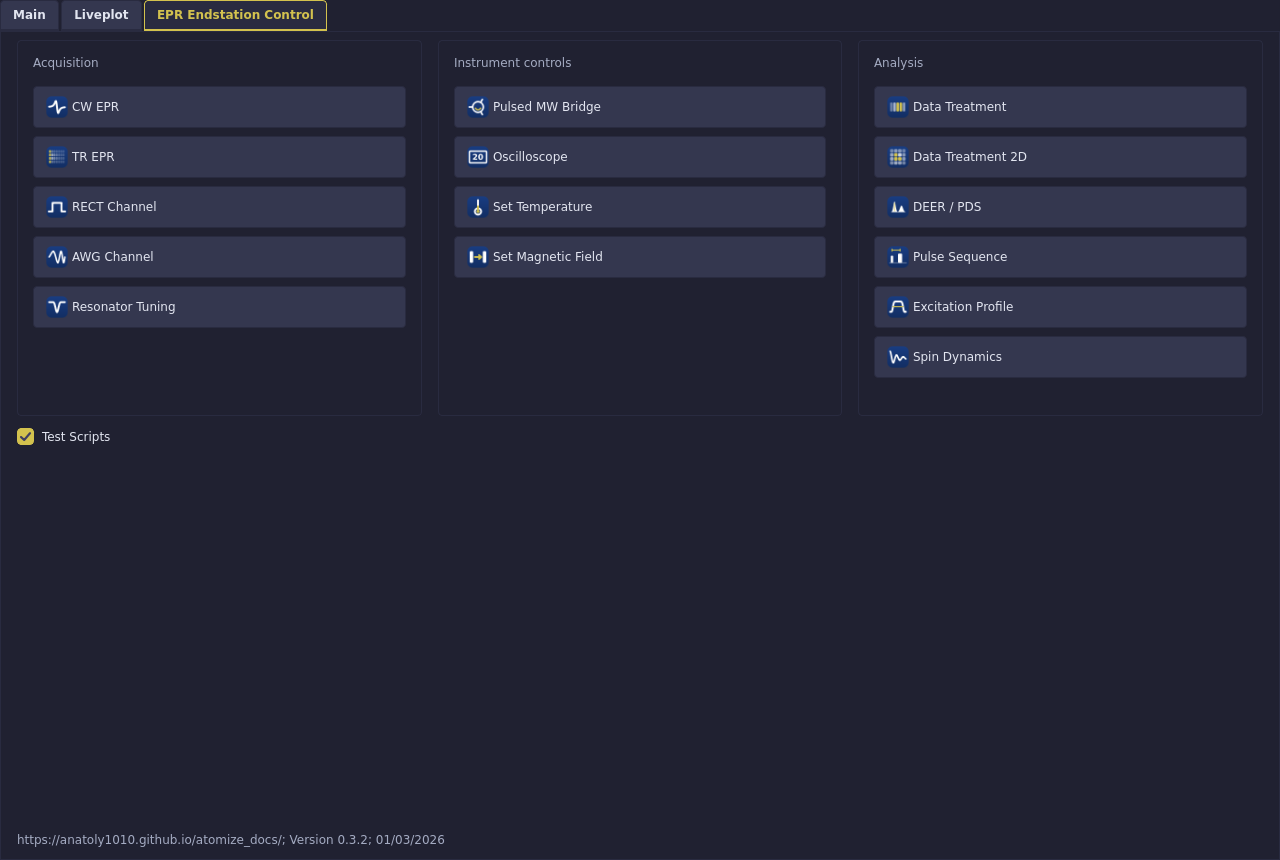
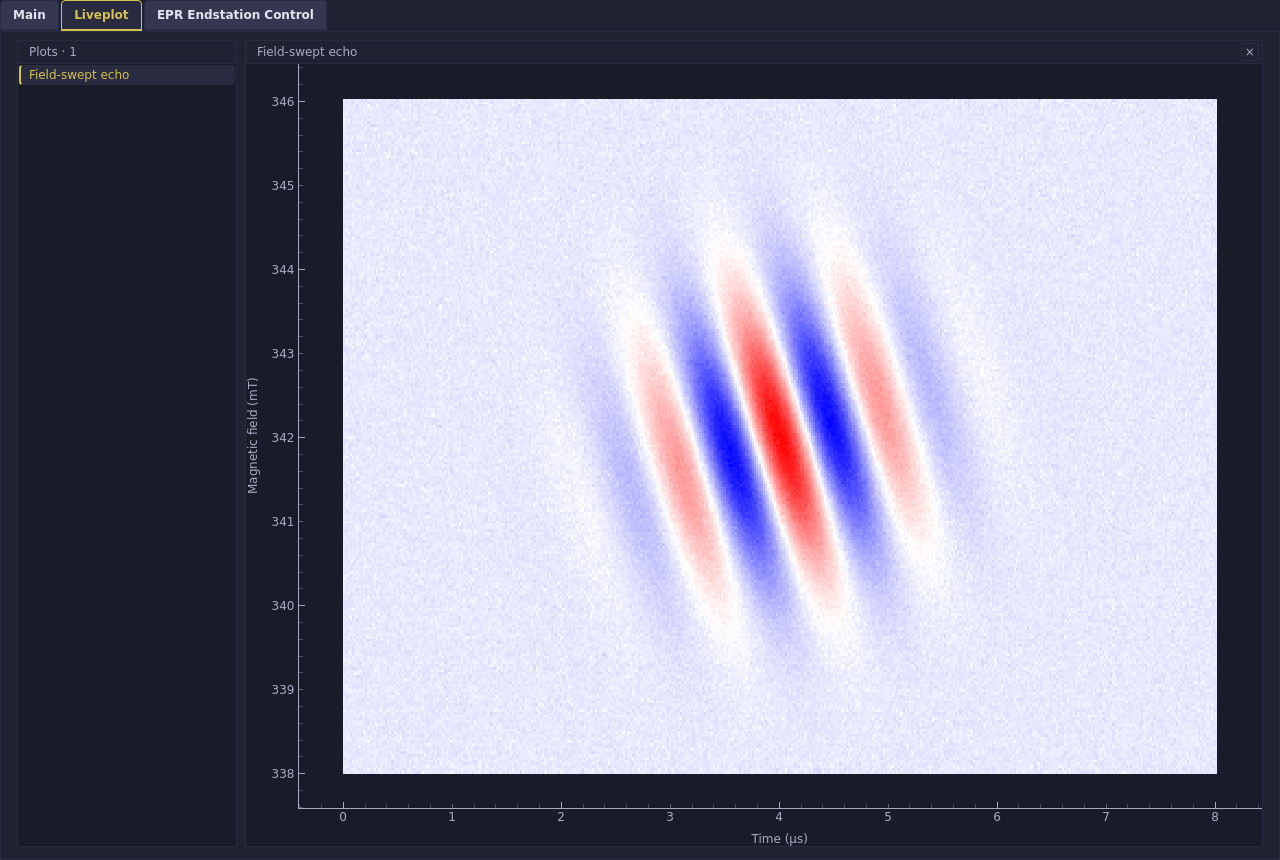
Refresh screenshots with noisy traces and separate 1D and 2D views

diff --git a/readme.md b/readme.md
@@ -249,5 +249,5 @@ The original [C library](http://www.spincore.com/support/spinapi/using_spin_api_
 
 ## Screenshots
 ![Script editor and experiment queue](screenshots/screenshot.png)
-![Liveplot with synthetic demonstration data](screenshots/screenshot2.png)
-![EPR Endstation Control](screenshots/screenshot3.png)
+![Liveplot with two noisy 1D traces](screenshots/screenshot2.png)
+![Liveplot with a noisy 2D echo map](screenshots/screenshot3.png)
